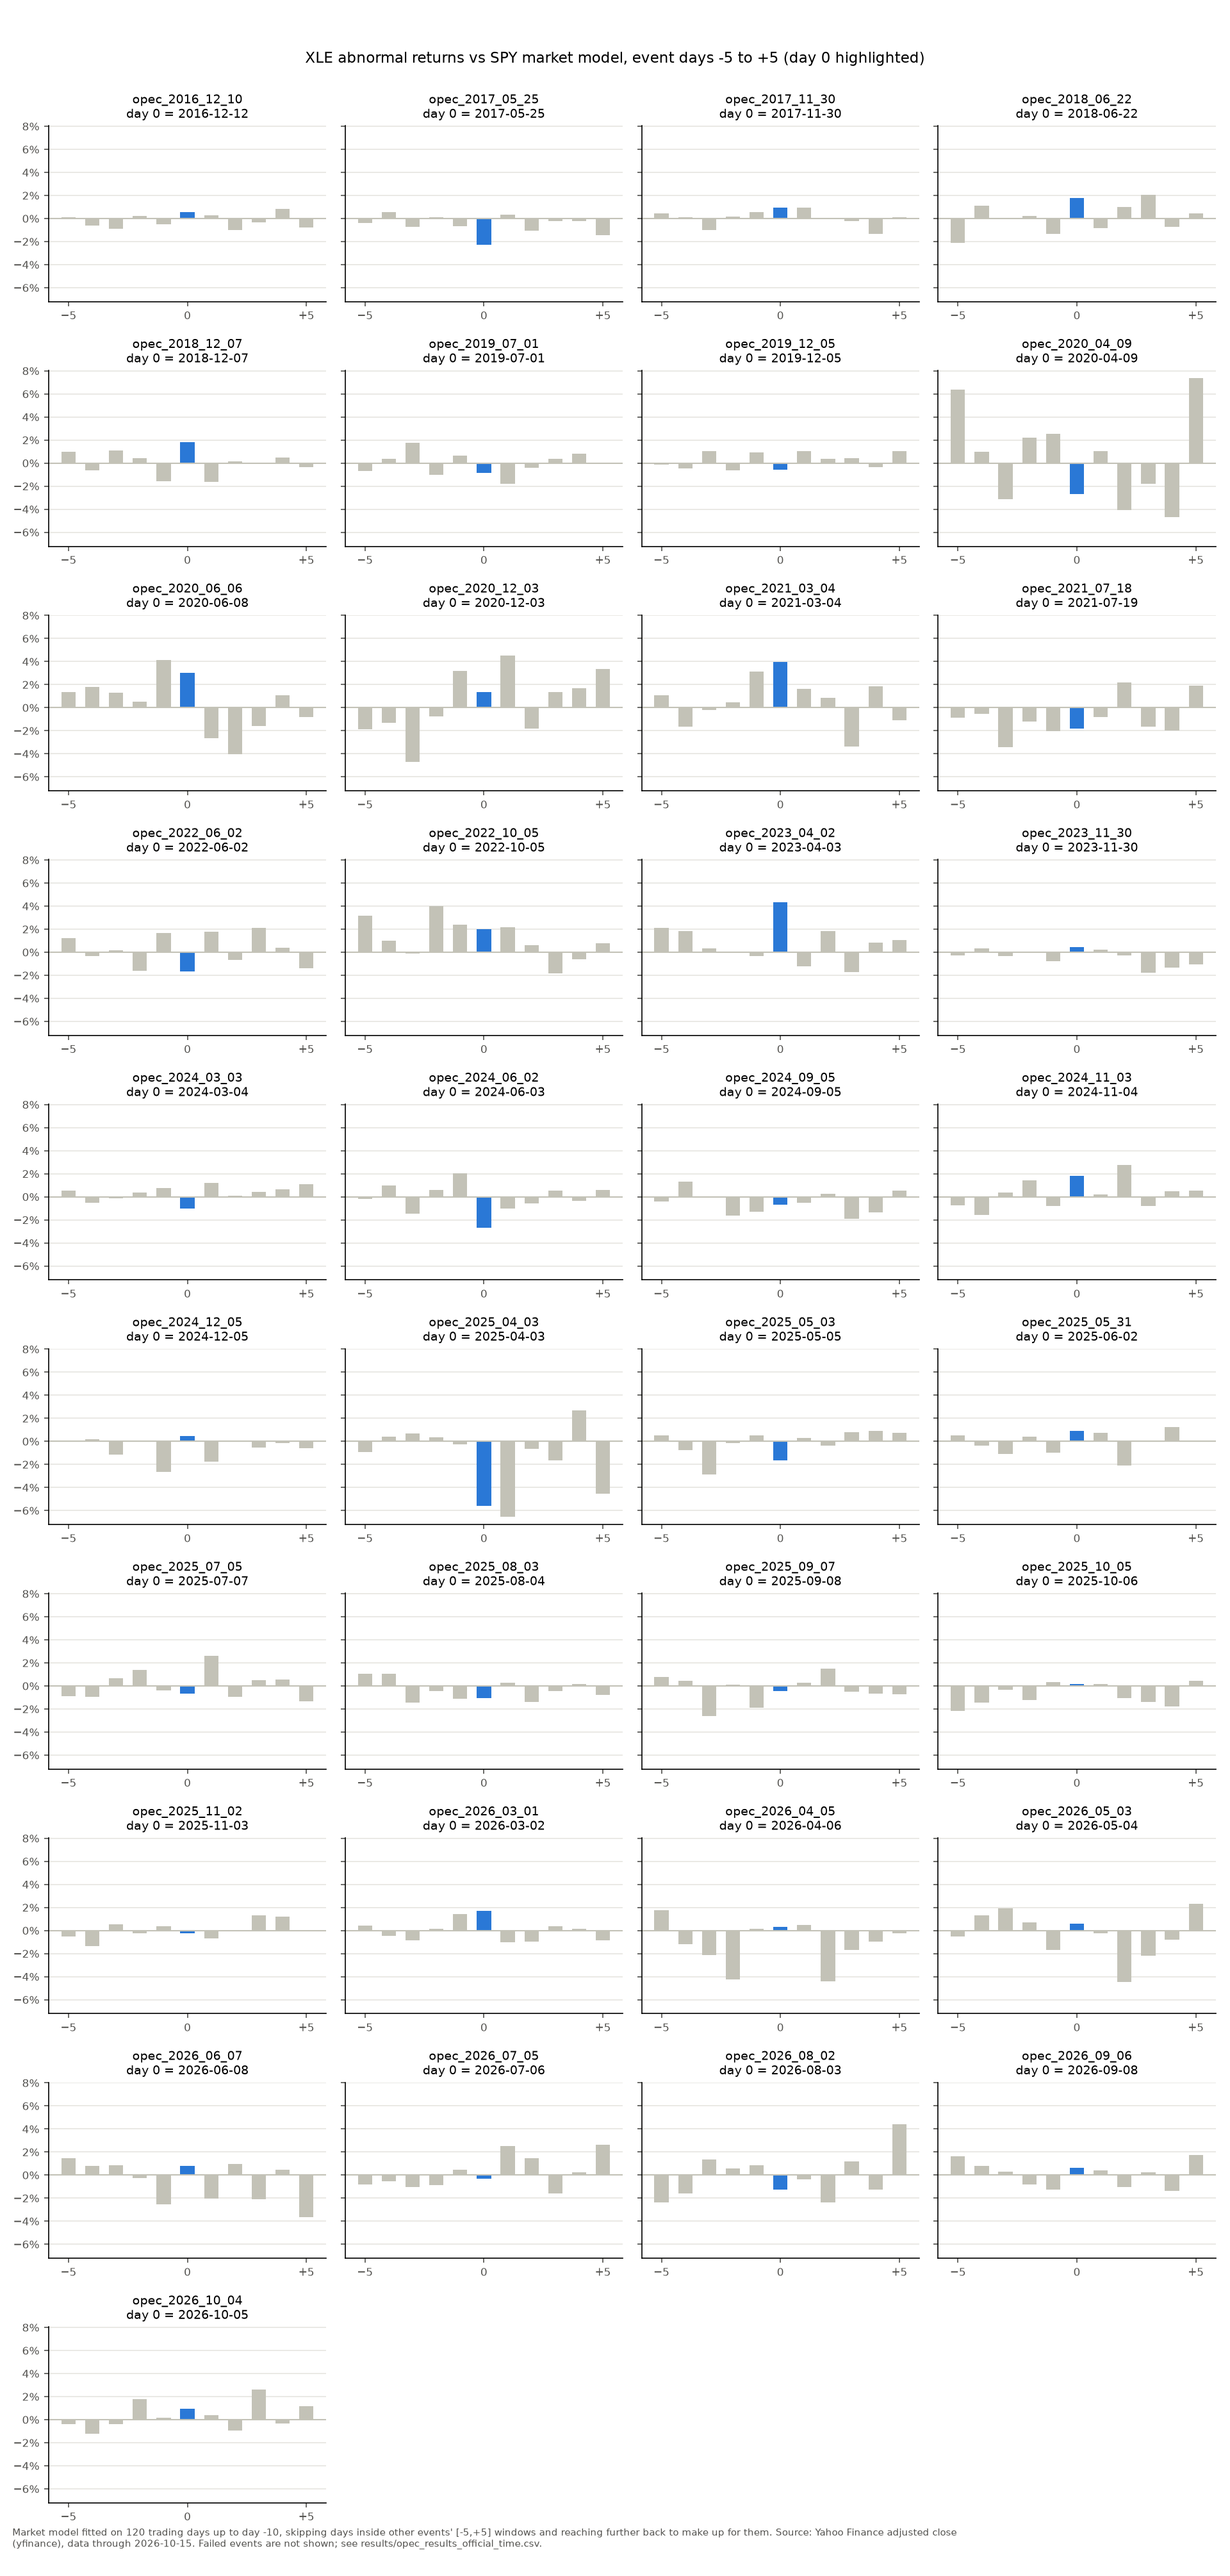
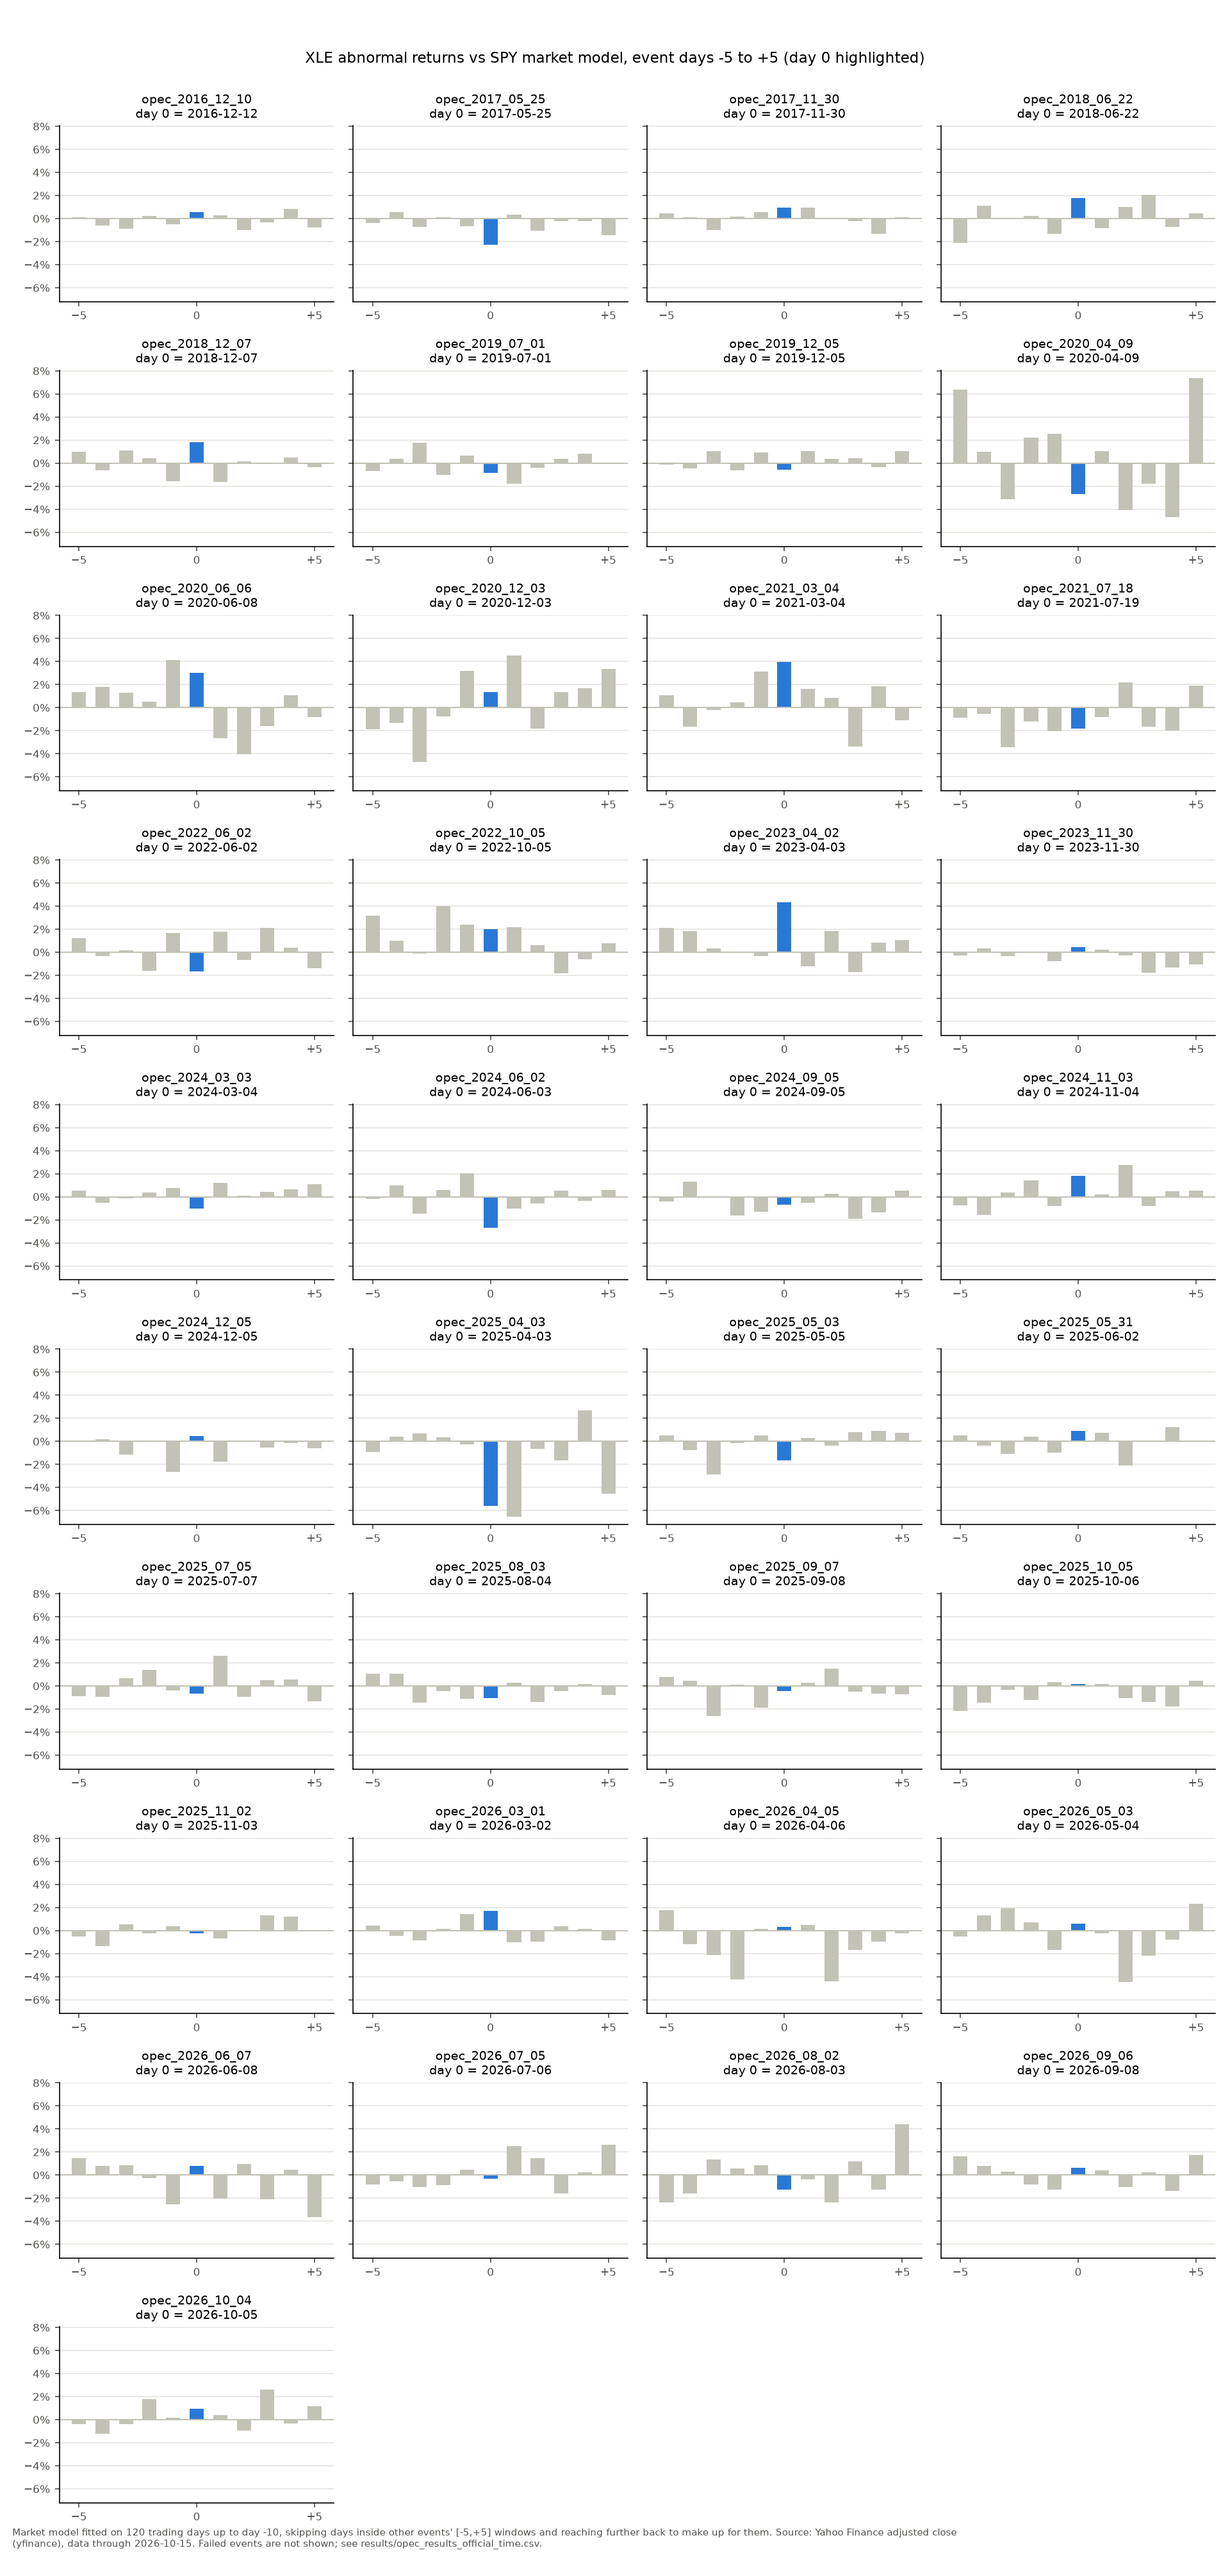
Rerun all studies on the axis fix commit
Clean rerun of run_opec (main, --shift-assumed, --official-time) and
run_supply_route on c0466d1. Every results CSV is byte-identical;
only charts (new y-axis labels) and run info change. All run info
files now record git_dirty false, and the supply-route events hash
matches the committed CSV. README test count 445 -> 448.

diff --git a/STATUS.md b/STATUS.md
@@ -24,7 +24,7 @@ Last updated: 2026-10-27 (first supply-route run, README section drafted)
 - confound_note for attack_2020_11_23 added after the run at John's request (vaccine and transition rally; AstraZeneca release, Fox Business, CBS and Reuters/BOE Report, all fetched 27 Oct). No output reads confound_note, so no number changes, but the events file hash no longer matches `supply_route_run_info.json`. Commit the run outputs before the CSV change so each commit is consistent.
 - README restructured for two event types: new title, "In 30 seconds" split by event type, shared Method, an "OPEC+ decisions" section, and a full "Supply-route attacks" section (definition, design, results, subgroups, largest event, caveats), a supply-route events CSV table and a masked-attacks table. Test count 414 -> 445.
 - Chart axis fix (approved by John 27 Oct): `PercentFormatter(decimals=0)` labelled ticks 0.5% apart as "0%, 1%, 2%, 2%" (the supply-route XLE chart read 2%, 2%, 2%, 1%, 0%, 0%). Replaced by `reporting.percent_label`, which uses only the decimals each tick needs; whole-percent ticks look the same as before. Tested in `tests/test_reporting.py`. The XLE supply-route chart is back in the README "In 30 seconds". Charts in the repo get regenerated by a clean rerun of all four runs (run_opec main, `--shift-assumed`, `--official-time`, run_supply_route). That rerun also gives `supply_route_run_info.json` an events hash that matches the committed CSV (d39ffa5 committed the confound_note with the old run info).
-- Tests (27 Oct): ruff clean, 443 passed, 2 skipped (reviewer-hook test: no bash found from pytest's shell).
+- Tests (27 Oct, after the axis fix): ruff clean, 446 passed, 2 skipped (reviewer-hook test: no bash found from pytest's shell).
 
 - Plan approved and decisions committed (560b69d): XLE primary, ITA and GLD secondary, all vs SPY, expected sign positive; primary test XLE [0,+1] cross-sectional t, all attacks pooled; windows [0,+1] and [-5,+5]; Holm p over the other five; two-sided; subgroups route and escalation; counted attacks at least 11 trading days apart; no time_assumed rows; attack runs mask all OPEC events and OPEC masks (main and shifted day 0); OPEC runs do not mask attacks until a v1.1.
 - Built: `src/event_study/reporting.py` (shared helpers moved out of run_opec.py), `group_columns` in the runner, `events.load_supply_route_events` (spacing check), `scripts/run_supply_route.py` (`--dates-only`; no `--refresh`, so the shared XLE/SPY cache is never replaced), header-only `events/supply_route_events.csv` and `events/supply_route_mask_only.csv`, tests in `tests/test_supply_route.py`. OPEC outputs byte-identical after the refactor.
@@ -36,7 +36,8 @@ Last updated: 2026-10-27 (first supply-route run, README section drafted)
 - 27 Oct, later: attack_2026_03_18 (Ras Laffan) moved to the events file at 15:28 ET (Libnanews live item, 19:28:14 GMT, confirmed by fetch; John's QNA time 15:21 ET, no URL), day 0 Wed 18 Mar. mask_2026_03_19 is now masked for spacing. Now 21 counted (15 pre-war), 18 masked (13 spacing, 4 no time, 1 off-route).
 - 27 Oct, last: attack_2021_03_07 (Ras Tanura) moved to the events file at 15:35 ET Sun (Saudi MoD via SPA 2197893, 23:35 AST, checked by hand by John; the page renders by script), day 0 Mon 8 Mar 2021. Its confound_note: 2 sessions after opec_2021_03_04, so [-5,+5] carries that OPEC+ move. **Final list: 22 counted (16 pre-war), 17 masked (13 spacing, 3 no time, 1 off-route).**
 - Decision lines for untimed attacks, earliest time and time_assumed masks pasted by John 27 Oct. attack_2026_07_22 is a UKMTO report at exactly 16:00 ET, so day 0 rolls to Thu 23 Jul.
-- Next: John commits the axis fix, then the four runs are repeated on that clean commit. Check that every results CSV is byte-identical and only the charts and run info files change, then commit. Update the GitHub repo description (it may still say OPEC+ only).
+- 27 Oct, clean rerun of all four runs on c0466d1 (axis fix): every results CSV byte-identical. Changed: 4 run info files (all now `git_dirty: false`, commit c0466d1; supply-route events hash now e71ad1dc0cb4, matching the committed CSV) and 6 charts (opec_events x3, supply_route_caar x3). opec_caar*.png and supply_route_events_*.png came out identical. Before this, the committed opec_run_info*.json said `git_dirty: true` at 560b69d (left from the refactor check); that is fixed now. README test count 445 -> 448.
+- Next: a manager-agent review and cleanup pass (handoff prompt given 27 Oct). Update the GitHub repo description (it may still say OPEC+ only).
 
 ## Changed this session (needs DECISIONS.md lines from the user)
 

diff --git a/README.md b/README.md
@@ -30,7 +30,7 @@ CAR (cumulative abnormal return) is a security's return minus what SPY predicts,
 - **Nothing else survives a multiple-testing correction.** Of the five other security and window tests, XLE over days -5 to +5 comes closest (+2.27%, p 0.035), but its Holm-adjusted p is 0.18. Most of that move (+1.83%) comes before the attacks, so it isn't a reaction to them. ITA and GLD show nothing.
 - **One attack carries much of the average.** The Nov 2020 missile strike on Aramco's Jeddah plant (+9.84%) landed on the same days as the Oxford/AstraZeneca vaccine result and the start of the Biden transition. Without it, the other 21 attacks average +0.16%.
 
-**Rigor:** no look-ahead (each model is fitted only on days well before its event, skipping every other event's window), main tests fixed before the first run, Holm adjustment for the attack study's secondary tests, a frozen price snapshot with hashes and the git commit recorded for every run, 445 automated tests, robustness checks (shifted dates, official times, outlier exclusion, a pre-war sample), and null headlines reported as nulls.
+**Rigor:** no look-ahead (each model is fitted only on days well before its event, skipping every other event's window), main tests fixed before the first run, Holm adjustment for the attack study's secondary tests, a frozen price snapshot with hashes and the git commit recorded for every run, 448 automated tests, robustness checks (shifted dates, official times, outlier exclusion, a pre-war sample), and null headlines reported as nulls.
 
 Full method, results and limitations below. Every methodology decision and its reason is logged in [DECISIONS.md](DECISIONS.md).
 
